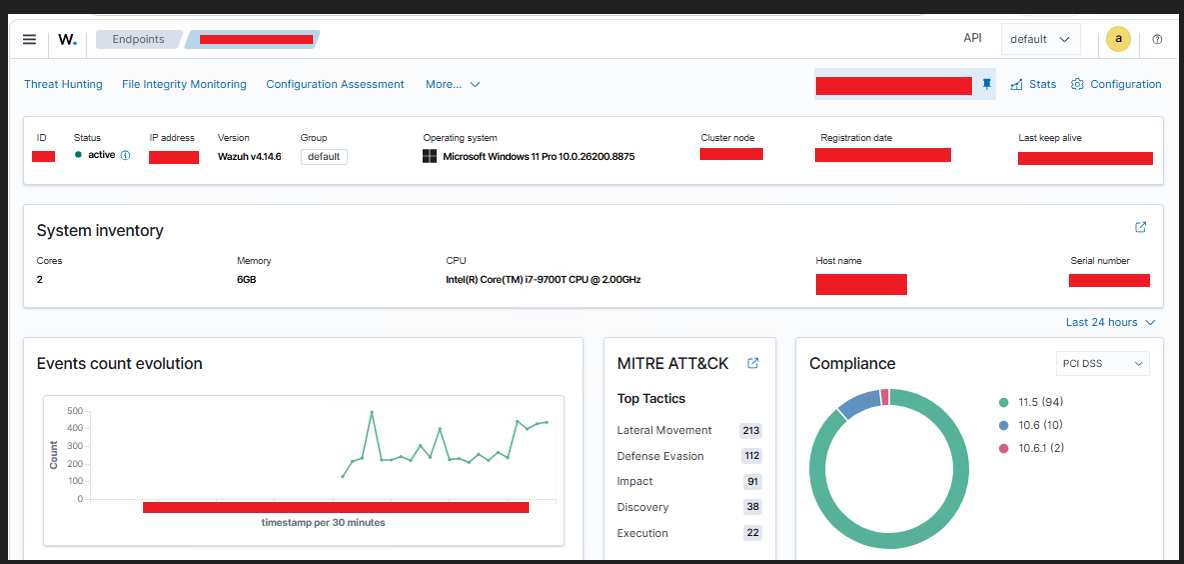
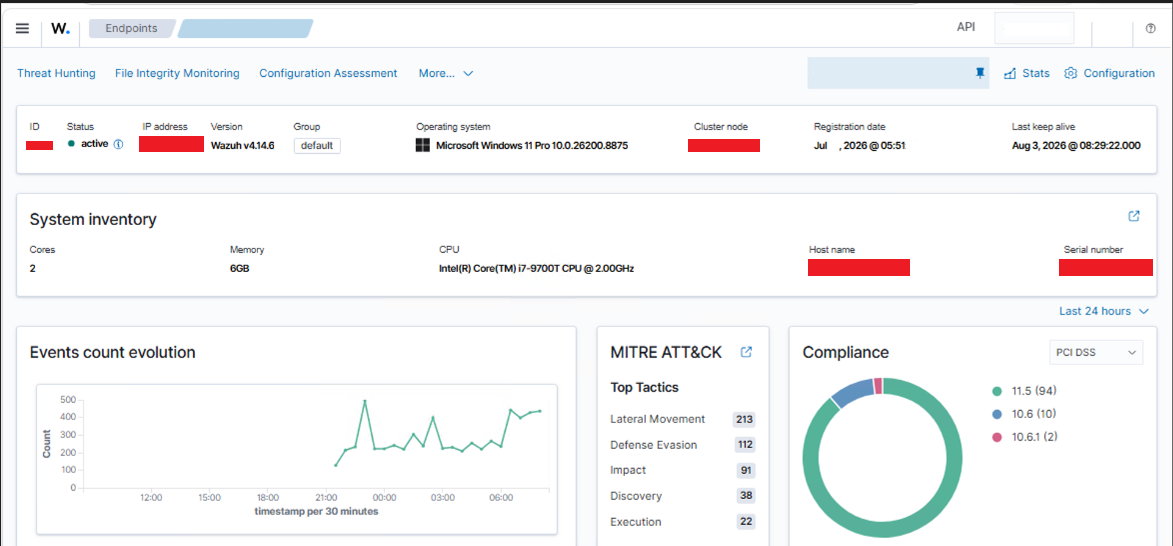
Replace Phase 8 screenshots with sanitized evidence

diff --git a/Documentation/Build Log/VioletOps_Build_Log.md b/Documentation/Build Log/VioletOps_Build_Log.md
@@ -1470,3 +1470,20 @@
 - No VM configuration, resource allocation, IP assignment, firewall rule, routing, NAT, DHCP, VLAN, virtual-switch, service, or logging-pipeline configuration changed during this documentation cleanup.
 - VM inventory status: Technically validated and documented.
 - Repository publication status: Published to GitHub in commit 1726ab4c0cbd01cf8c96520861d1452551cd8984.
+
+## GitHub Screenshot Sanitization Remediation - 2026-08-15
+
+- Reviewed all image files currently published in the VioletOps GitHub repository.
+- Verified 23 published screenshots against the trusted sanitized source folder:
+  `C:\Users\Admin\Pictures\GitHub Sanitized Screenshots`.
+- Initial SHA-256 comparison identified 10 differing files; subsequent visual sanitization review confirmed that only the 8 Phase 8 Attack Simulation screenshots required replacement.
+- Preserved rollback copies of the initially identified files in:
+  `C:\VioletOps\Backups\GitHub-Screenshot-Remediation-20260815`.
+- Replaced the 8 Phase 8 Attack Simulation screenshots with their verified sanitized counterparts.
+- Visually reviewed all 23 GitHub-published screenshots for sanitization consistency; only the 8 Phase 8 screenshots required remediation. The 8 replaced Phase 8 files were verified against the sanitized source copies.
+- Git change scope was reviewed and confirmed to contain only the 8 intended Phase 8 screenshot replacements plus this Build Log update.
+- No network architecture, VM configuration, IP assignment, firewall rule, routing, NAT, DHCP, VLAN, virtual-switch, service, detection, or logging-pipeline configuration changed during this remediation.
+- Screenshot sanitization remediation status: Technically validated and documented.
+- Repository publication status: Pending review and commit.
+
+
